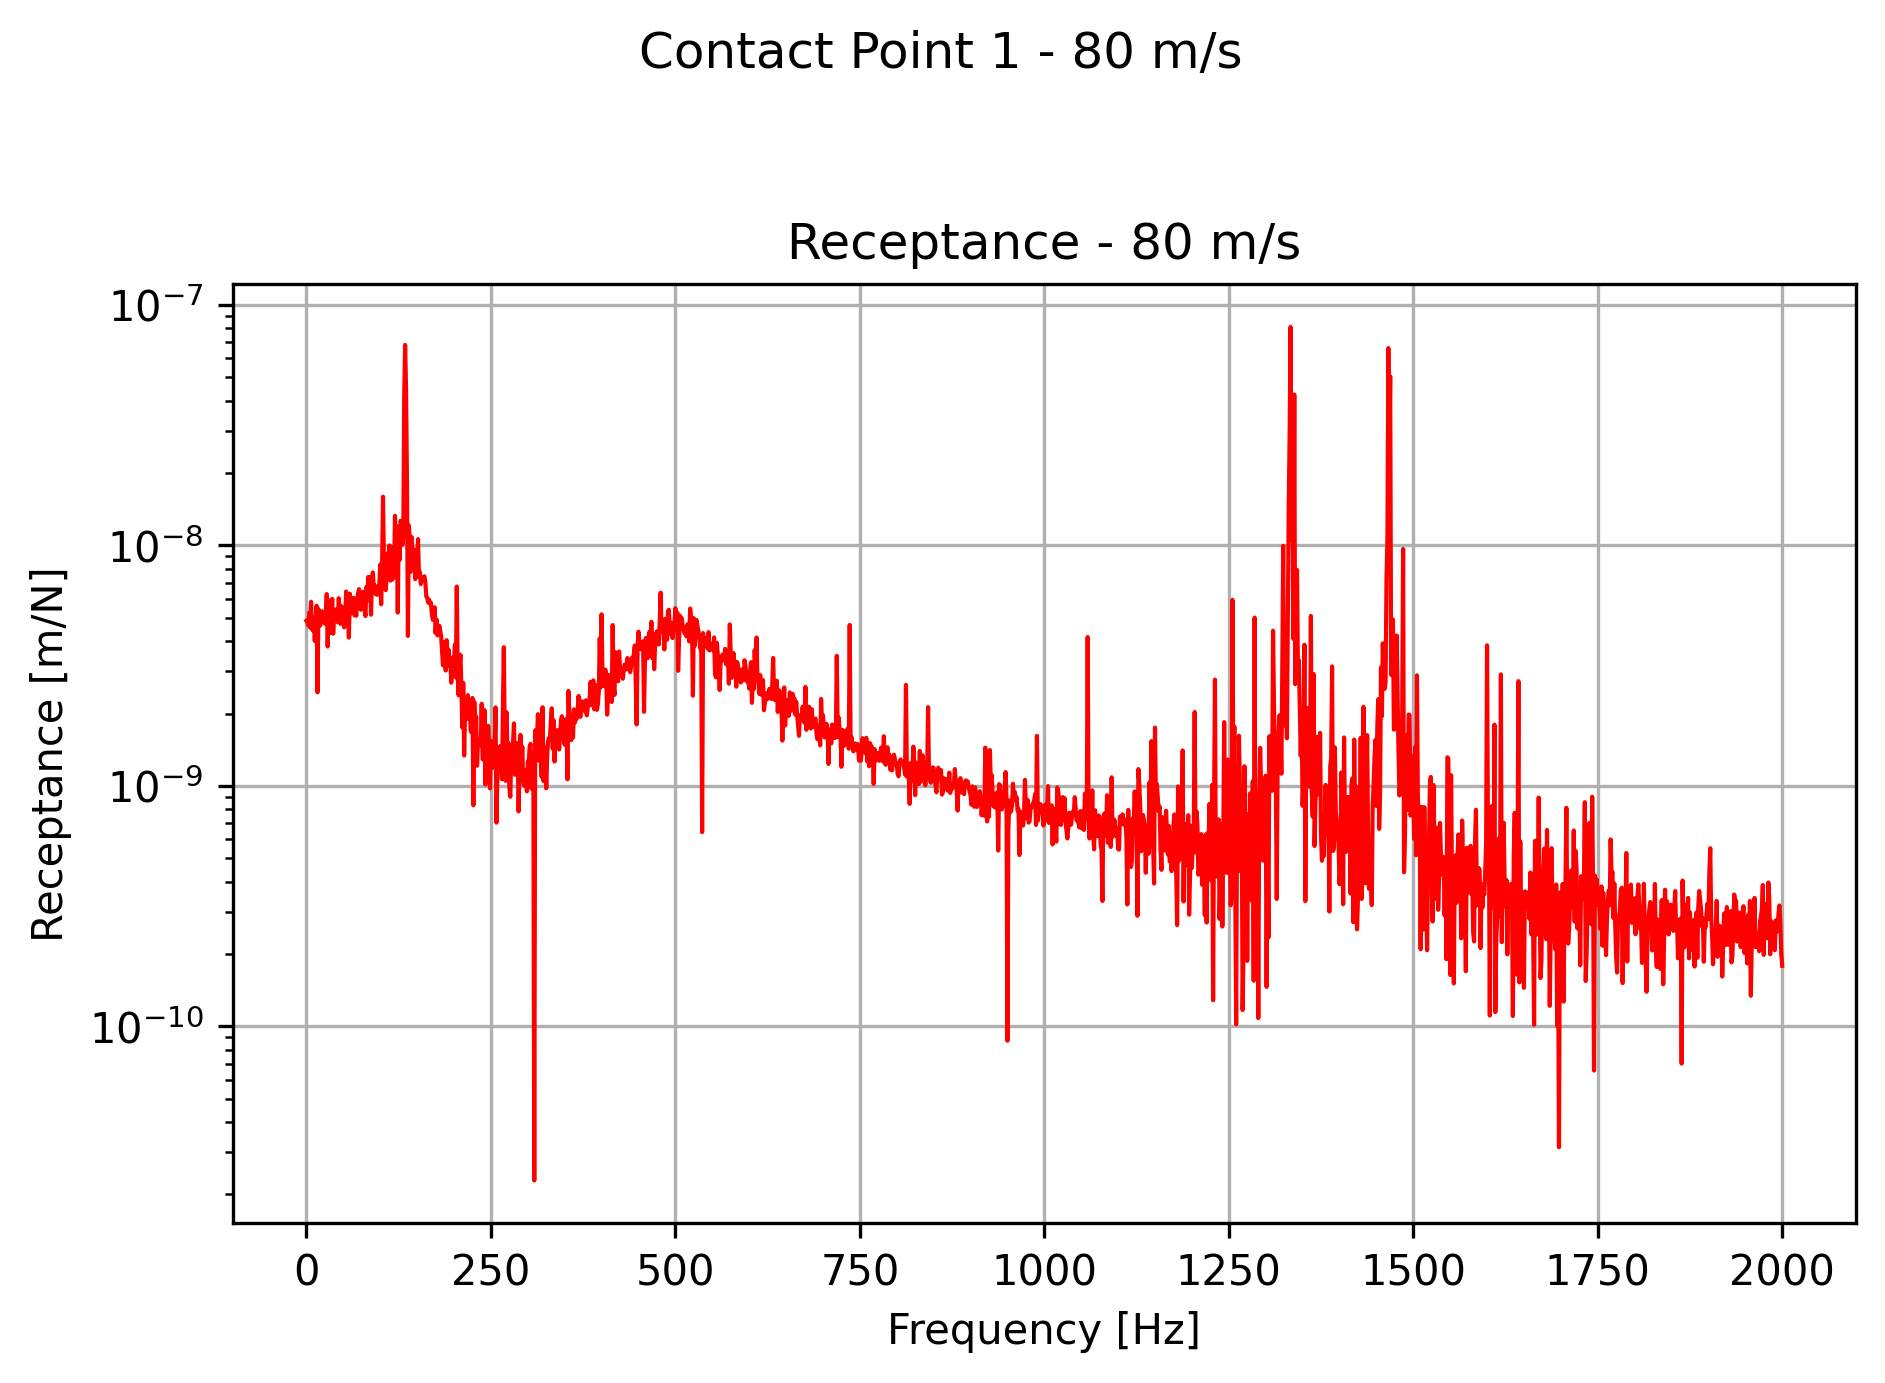
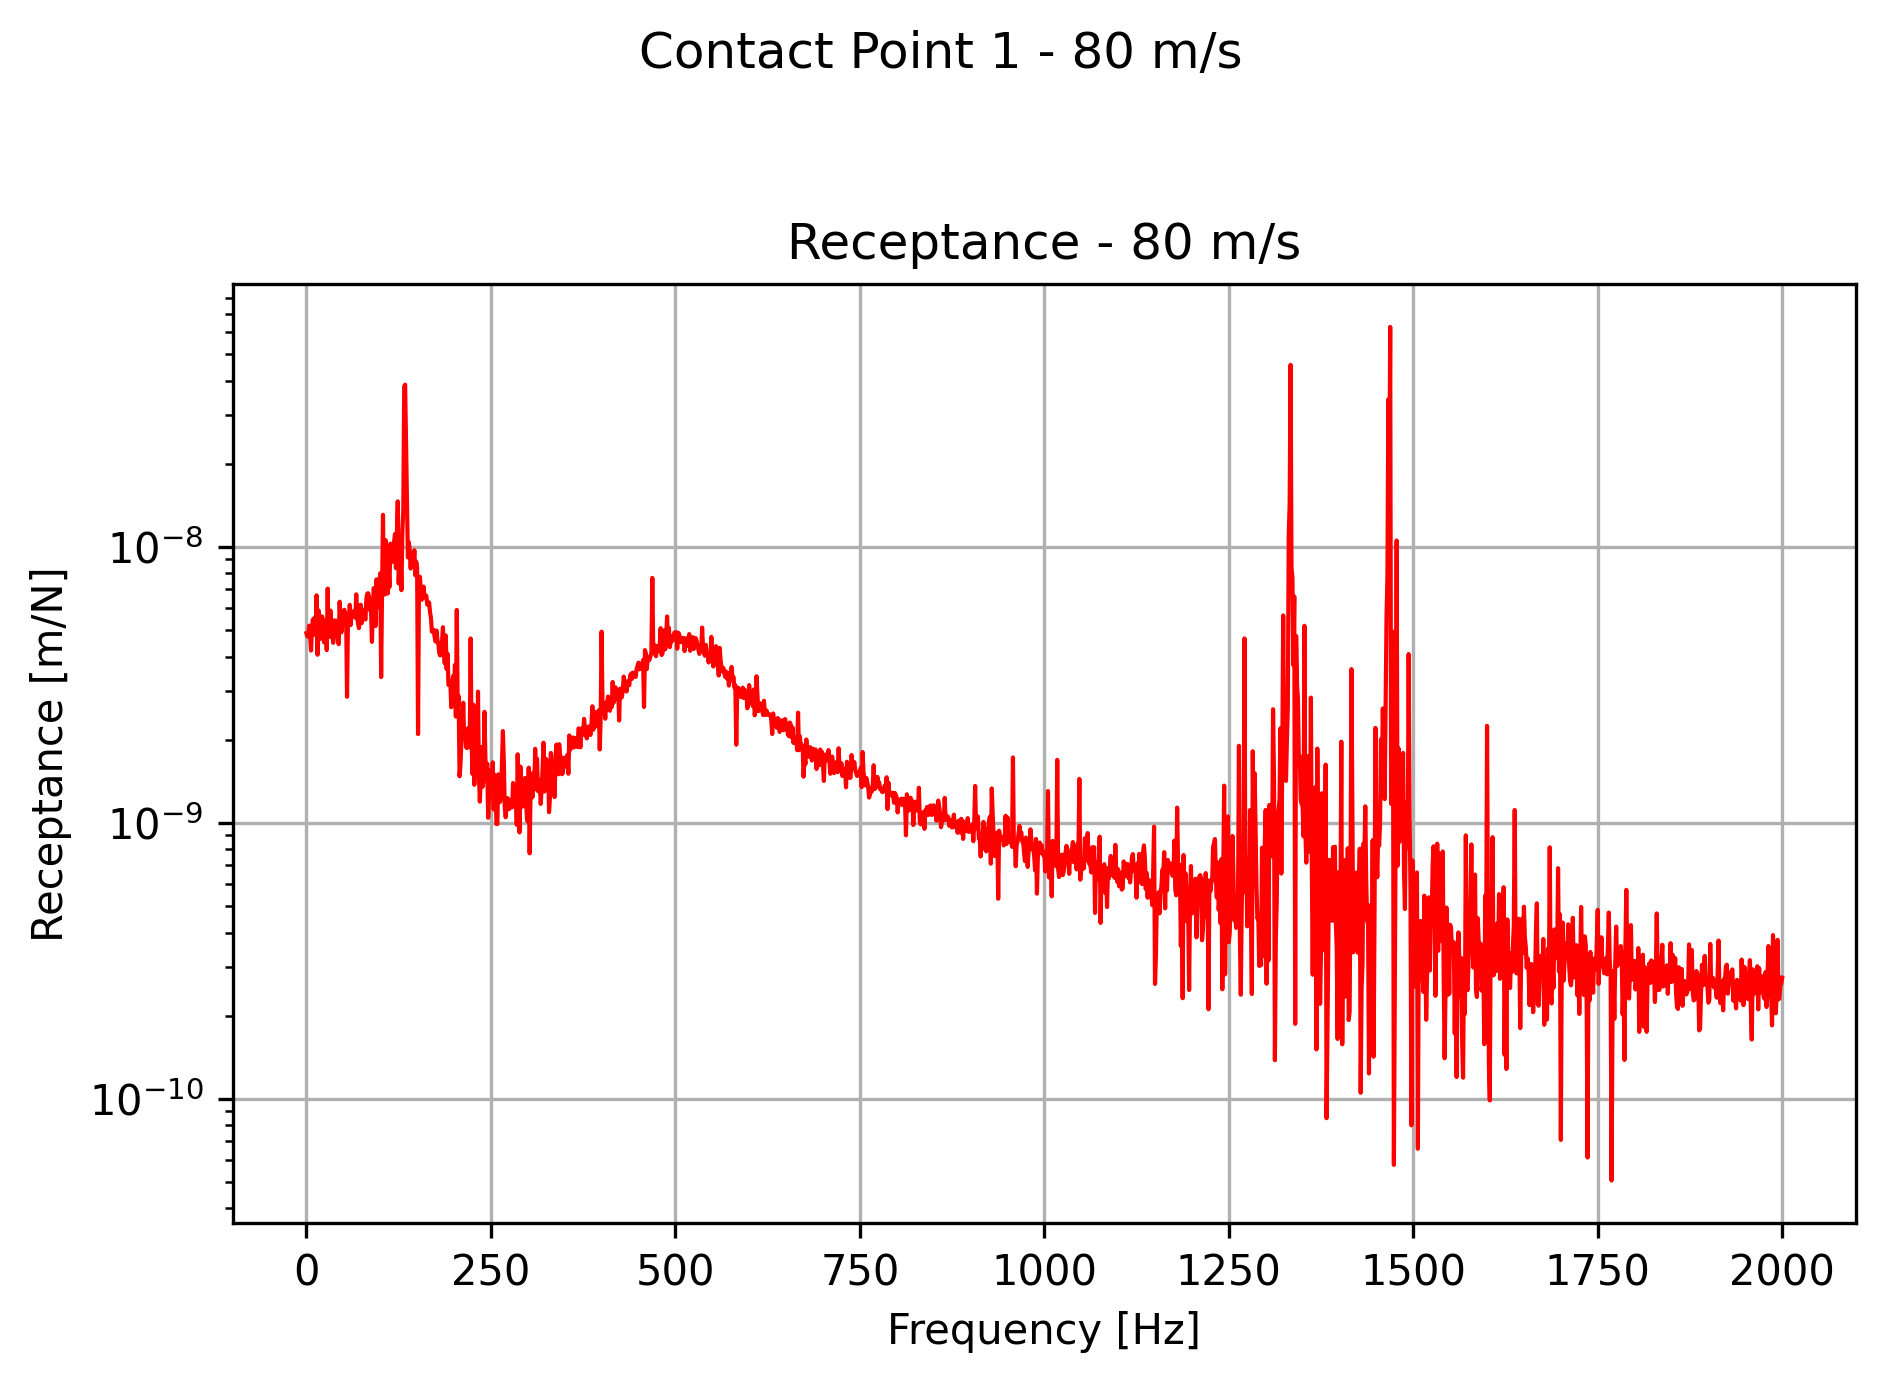
testing

diff --git a/Moving_Force.py b/Moving_Force.py
@@ -42,7 +42,7 @@ req_simt            = 1         # Required simulation time [s]
 dt                  = 2e-5      # time step [s]
 velocities          = [25, 60, 80]      # Velocities to simulate [m/s]
 # velocities          = np.arange(5, 101, 5)  # 5 to 100 m/s in 5 m/s steps
-ramp_fraction       = 0.05       # fraction of total time for ramp up
+ramp_fraction       = 0.1       # fraction of total time for ramp up
 force_amplitude     = 65000.0    # Force amplitude [N]
 
 # =============================================================================
@@ -147,7 +147,7 @@ for vel in velocities:
         # Einzelplots
         # plt.figure(figsize=(10, 5))
         # plt.subplot(2, 1, 1)
-        # plt.plot(freqs[mask], np.abs(mobility[mask]), 'b-', linewidth=1)
+        # plt.plot(freqs[mask], np.abs(mobility[mask]), linewidth=1)
         # plt.xlabel('Frequency [Hz]')
         # plt.ylabel('Mobility [m/Ns]')
         # plt.yscale('log')
@@ -155,7 +155,7 @@ for vel in velocities:
         # plt.title(f'Mobility - {vel} m/s')
 
         # plt.subplot(2, 1, 2)
-        plt.plot(freqs[mask], np.abs(receptance[mask]), 'r-', linewidth=1)
+        plt.plot(freqs[mask], np.abs(receptance[mask]), linewidth=1)
         plt.xlabel('Frequency [Hz]')
         plt.ylabel('Receptance [m/N]')
         plt.yscale('log')

diff --git a/rolland/excitation.py b/rolland/excitation.py
@@ -103,8 +103,8 @@ class ConstantForce(MovingExcitation):
         #     size    = n - self.ramp_length
         # )
         random_component = np.random.uniform(
-            low     = 1 * self.force_amplitude,
-            high    = 2 * self.force_amplitude,
+            low     = 0 * self.force_amplitude,
+            high    = 1 * self.force_amplitude,
             size    = n - self.ramp_length
         )
         constant_part = [self.force_amplitude] * (n - self.ramp_length)
